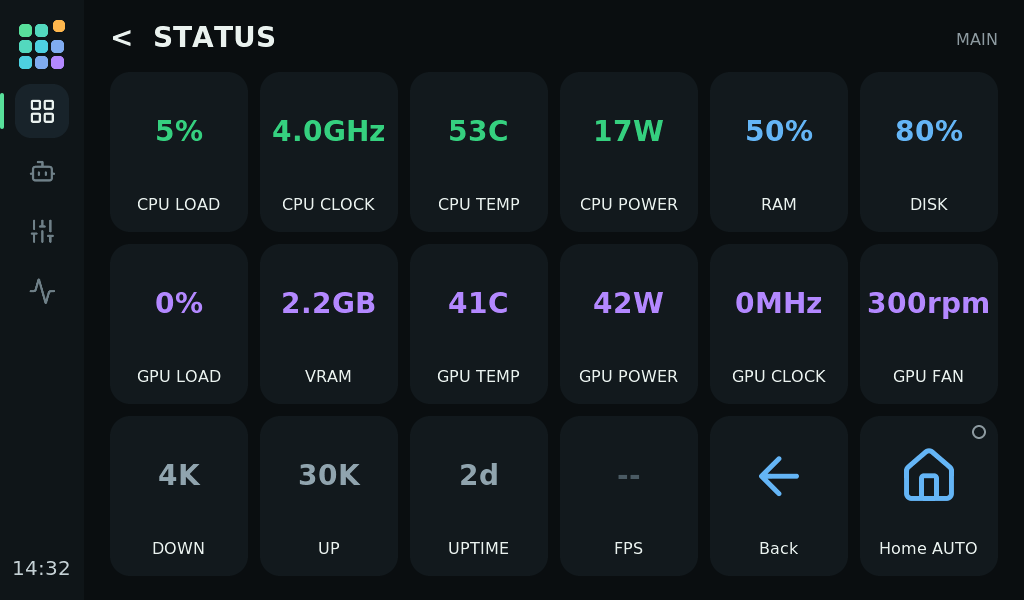
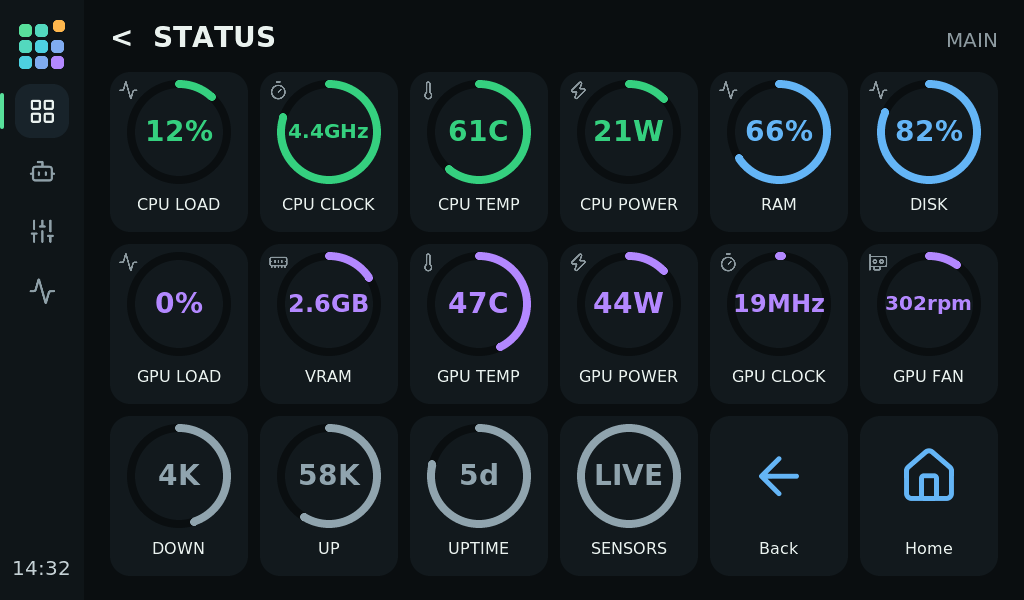
release: 1.0.0
Docs and website checked against the code: version examples, the rollback trigger (a crash or hang before the firmware confirms itself), what was tried on a panel, one-thread drawing, the HTTP redirect and Open step changes, Automatic actions in the More menu. New panel images and demo animation from the current firmware UI.

diff --git a/docs/index.html b/docs/index.html
@@ -171,7 +171,7 @@ footer a{color:var(--muted)}
     <a class="btn" href="https://github.com/catorendal-a11y/tessera-deck/blob/main/docs/INSTALL.md">Read the install guide</a>
   </div>
   <div class="chips">
-    <span class="chip">v0.10.1</span>
+    <span class="chip">v1.0.0</span>
     <span class="chip">MIT licence</span>
     <span class="chip">ESP32-P4 · LVGL 9.6</span>
     <span class="chip">Windows 10 / 11</span>
@@ -275,7 +275,7 @@ footer a{color:var(--muted)}
     <div class="code">
       <header><span>Release · Windows</span><button type="button" data-copy="rel">Copy</button></header>
 <pre id="rel"><span class="c"># from the latest release</span>
-tessera-host-v0.10.1.zip
+tessera-host-v1.0.0.zip
 <span class="c"># unpack, then double-click</span>
 Tessera.cmd</pre>
     </div>
@@ -303,14 +303,14 @@ idf.py -B build/idf6 -p COMx flash</pre>
     <details><summary>Does it run on another board, or on macOS or Linux?</summary><p>Not yet. The pin setup and the screen layout are written for this board, so another board needs a port, and the host runs on Windows only. CONTRIBUTING.md says what a port takes; open an issue with the board's name and resolution.</p></details>
     <details><summary>How does it compare with a Stream Deck?</summary><p>A Stream Deck MK.2 lists at $149.99 with 15 physical keys, the XL at $249.99 with 32. Tessera costs the board and gives 18 keys per page, keys up to three slots wide, and widgets, a mixer, PC status and the AI agents built in, under the MIT licence. You do give up the feel of real keys, since Tessera is a glass touchscreen. Prices are US list prices from November 2026.</p></details>
     <details><summary>Does it send anything to the internet?</summary><p>Only what you ask for: the update check on GitHub, the clock's weather from Open-Meteo, online icons from Iconify, your own HTTP actions and calendar, and the plugins you turn on. The bundled plugins only reach your own Home Assistant and OBS. Setup also downloads Python packages from PyPI, pinned by hash, and Libre Hardware Monitor if you turn on the optional sensors. SECURITY.md lists every connection.</p></details>
-    <details><summary>What happens when the PC is off?</summary><p>The panel keeps the last layout and shows it while the PC is off. Actions run on the PC, so keys need the host. A watchdog restarts the panel when the screen or USB loop hangs, and the bootloader rolls back an update that never reaches the host. All three were tried on a panel; VERIFICATION.md in the repository has the results.</p></details>
+    <details><summary>What happens when the PC is off?</summary><p>The panel keeps the last layout and shows it while the PC is off. Actions run on the PC, so keys need the host. A watchdog restarts the panel when the screen or USB loop hangs, and the bootloader rolls back an update that crashes or hangs before it confirms itself. All three were tried on a panel; VERIFICATION.md in the repository has the results.</p></details>
     <details><summary>Does it work with Home Assistant?</summary><p>Through the PC, yes: the bundled plugin runs Home Assistant actions from keys. On the esphome-beta branch the panel can also join your Wi-Fi and show up through the ESPHome integration, with keys that work while the PC is off. That beta is not in the release yet.</p></details>
     <details><summary>Licence and contributing?</summary><p>MIT. ESP-IDF, LVGL, cJSON, the Lucide icons (ISC), the DejaVu fonts and the optional Libre Hardware Monitor (MPL-2.0) keep their own licences. Bug reports, ideas, ports and pull requests are welcome.</p></details>
   </div>
 </section>
 
 <div class="wrap">
-  <p class="status"><b>Beta.</b> Home Assistant over Wi-Fi lives on the <a href="https://github.com/catorendal-a11y/tessera-deck/tree/esphome-beta">esphome-beta</a> branch and is not in v0.10.1. It runs on one panel and works with aioesphomeapi, the library Home Assistant uses for ESPHome devices, but it has not been tried in a full Home Assistant install yet. Reports in issues are welcome.</p>
+  <p class="status">Home Assistant over Wi-Fi is a beta. It lives on the <a href="https://github.com/catorendal-a11y/tessera-deck/tree/esphome-beta">esphome-beta</a> branch and is not in v1.0.0. It runs on one panel and works with aioesphomeapi, the library Home Assistant uses for ESPHome devices, but it has not been tried in a full Home Assistant install yet. Reports in issues are welcome.</p>
 </div>
 </main>
 

diff --git a/docs/FEATURES.md b/docs/FEATURES.md
@@ -4,7 +4,7 @@
 
 Tessera turns the 1024 × 600 touchscreen of the **GUITION 7-inch ESP32-P4 display board** into a Stream Deck-style panel with 18 keys and four screens. A small Windows host owns the USB connection and runs the actions. It also serves the editor, which shows the same keys as the panel.
 
-This page lists what Tessera does, including the changes under *Unreleased* in the [changelog](../CHANGELOG.md). For how to use each part, see [Using Tessera](USING.md).
+This page lists what Tessera does in version 1.0.0. The [changelog](../CHANGELOG.md) lists what changed. For how to use each part, see [Using Tessera](USING.md).
 
 | Editor: a page of widgets | Editor: status page with live gauges |
 |---|---|
@@ -42,7 +42,7 @@ This page lists what Tessera does, including the changes under *Unreleased* in t
 | Gesture | Result |
 |---|---|
 | Tap a key | Runs its actions. |
-| Hold a key for about half a second | Runs the key's *Held* actions, if it has any. |
+| Hold a key for about 0.4 seconds | Runs the key's *Held* actions, if it has any. |
 | Two quick taps | Run the *Double-press* actions. A key with a double press waits about a third of a second before its normal action runs. |
 | Hold a key marked *Hold to confirm* | Runs only after a 0.6 s hold while a ring fills. Lifting or sliding off earlier does nothing. |
 | Swipe right on the keys | Goes back, like Keys on the rail after a shortcut. A swipe never presses the key it starts on. |
@@ -63,8 +63,9 @@ This page lists what Tessera does, including the changes under *Unreleased* in t
 
 - The panel dims after inactivity or when the PC locks. Quiet hours lower the brightness at night.
 - A watchdog restarts the panel when the screen or the USB loop hangs. The host logs the restart and why, and shows a notice after a crash, hang or power dip.
-- Firmware updates go over USB. The flash has two 6 MB app slots, and the bootloader returns to the previous firmware if a new one never reaches the host.
-- The watchdog, the rollback and the offline layout were tried on a panel, the first two with builds made to hang or never confirm. [VERIFICATION.md](../VERIFICATION.md) has the results.
+- Firmware updates go over USB. The flash has two 6 MB app slots, and the bootloader returns to the previous firmware if a new one crashes or hangs before it confirms itself (at the first handshake with the host, or after 60 s).
+- The watchdog, the rollback and the offline layout were tried on a panel with firmware 0.10.1, the first two with builds made to hang or never confirm. Hold to confirm, the panel lock, swipe back, the about sheet and how the widgets, faders and ambient screen look and feel on the glass have not been tried on a panel yet. [VERIFICATION.md](../VERIFICATION.md) has the results and the list.
+- The screen is drawn by one thread. A full screen takes about 55 ms and a page change 49 to 52 ms ([measured numbers](../VERIFICATION.md#screen-speed)). A page change draws the screen once, a picture that arrives late redraws only its key, and a change in an agent's text redraws only that text.
 
 ## In the editor
 
@@ -91,7 +92,7 @@ Text is at least 14 px, dim text has more contrast, and Windows' high-contrast s
 | Profile | New profile, a profile from a template, duplicate, *Profile settings …*, *Delete this profile*. |
 | Page | New page, a page from a template (Meetings, Coding, Media, Browser), duplicate, *Page settings …*, *Delete this page*. |
 | Panel | *Display …* (brightness, dimming, quiet hours, idle clock, clock format), *Panel firmware and updates …*, *Rail …*, *Key colors …*. |
-| More | *Getting started*, *Connect Claude Code …*, *Plugins …*, export, import, *Restore a backup …*, *Host log …*, *Save diagnostics*. |
+| More | *Getting started*, *Connect Claude Code …*, *Plugins …*, *Automatic actions …*, export, import, *Restore a backup …*, *Host log …*, *Save diagnostics*. |
 
 Deleting a page or a profile asks no question. A toast offers Undo.
 
@@ -117,7 +118,8 @@ Deleting a page or a profile asks no question. A toast offers Undo.
 - Over 120 ready-made actions and 10 profile templates for Windows, windows and desktops, PowerToys, GitHub Desktop, VS Code, browsers, meetings (Teams, Zoom, Discord), media, Codex, Claude Code and ZCode.
 - Actions added in 0.7.0: *Copy to clipboard*, *Window* (minimize, maximize, restore, close, always on top, next monitor, bring a program to the front), *Toggle variable* and *Lock panel*.
 - Counters and timers with labels (`$(counter:laps)`, `$(timer:tea)`), a countdown on the key, notifications and end actions. They are saved, and a running timer keeps counting while Tessera is closed.
-- An HTTP action fails with the status code when the answer is 4xx or 5xx.
+- An HTTP action fails with the status code when the answer is 4xx or 5xx. It refuses a redirect from https to http, and a redirect to another host goes there without the step's headers.
+- An *Open* step with an address does not fill in `%NAME%` from the PC's environment. Paths still do.
 
 ### Testing
 
@@ -150,7 +152,7 @@ Deleting a page or a profile asks no question. A toast offers Undo.
 
 - The sensors come from free sources. Windows performance counters work out of the box. The graphics driver adds GPU temperature, power, fan speed and clock without administrator rights (AMD through ADL, NVIDIA through `nvidia-smi`). [Libre Hardware Monitor](https://github.com/LibreHardwareMonitor/LibreHardwareMonitor) adds CPU temperature and power. `Tessera.cmd --sensors` starts it at every sign-in (one Windows prompt) and `--sensors-off` undoes it.
 - Windows notifications (panel connected or gone, an agent waiting, a timer that ends) can be switched off in Program settings or the tray menu.
-- By default Tessera verifies the device identity, keeps the action queue bounded, runs long commands without blocking other keys and shows a review before an import. An export leaves out the calendar address, plugin passwords and web request credentials. Plugin secrets are stored encrypted for your Windows account.
+- By default Tessera verifies the device identity, keeps the action queue bounded, runs long commands without blocking other keys and shows a review before an import, which marks a web request that sends `$(env:NAME)` as high risk. An export leaves out the calendar address, plugin passwords and web request credentials. Plugin secrets are stored encrypted for your Windows account.
 - Tessera keeps rotating backups that you can restore. A broken `profiles.json` is never backed up, and the newest good backup is restored at start.
 - From the tray app you can start Tessera with Windows and control the host. A host that dies starts again by itself.
 - For upkeep there are `Tessera.cmd --setup`, `--uninstall` and `--diagnostics`. The host log is kept under 5 MB with three older logs.

diff --git a/docs/SMARTDECK_COMPARISON.md b/docs/SMARTDECK_COMPARISON.md
@@ -18,8 +18,8 @@ README states it; behaviour that was not stated is marked *not stated*.
 |---|---|
 | Timer action: countdown with notifications | **Added.** `timer` action: start, pause, resume, stop, toggle; label `$(timer:name)`, optional countdown ring, message, sound, tray notification and actions when it ends. |
 | Counter action: increment/decrement, long-press reset | **Added.** `counter` action with step, limits and wrap; reset on long press through `hold_actions`; saved across restarts. |
-| Persistent device-side state, offline use (*not stated* by SmartDeck) | **Partly added.** The panel keeps the last layout in flash and shows it after a restart without the PC. Counters and timers are saved by the Windows host, not on the panel (see limits). |
-| "Install Firmware" button in the app, about 60 s | **Added.** *Panel firmware and updates …* in the Panel menu: verified package, board and protocol check, progress, host stopped and restarted around it. *Update (keeps settings)* goes over the panel's own USB connection, and the bootloader rolls back to the previous firmware if a new one never reaches the host. Run on the panel from 0.5.2 to 0.6.0; see [VERIFICATION.md](../VERIFICATION.md). |
+| Persistent device-side state, offline use (*not stated* by SmartDeck) | **Partly added.** The panel keeps the last layout in flash and shows it after a restart without the PC; this was tried on a panel. Counters and timers are saved by the Windows host, not on the panel (see limits). |
+| "Install Firmware" button in the app, about 60 s | **Added.** *Panel firmware and updates …* in the Panel menu: verified package, board and protocol check, progress, host stopped and restarted around it. *Update (keeps settings)* goes over the panel's own USB connection, and the bootloader rolls back to the previous firmware if a new one crashes or hangs before it confirms itself (at the first handshake with the host, or after 60 s). The update over USB (0.7.0 to 0.8.0) and the rollback to the previous slot (0.10.1) were run on a panel; see [VERIFICATION.md](../VERIFICATION.md). |
 | Test mode (right-click → Test), works without a device | **Added as a dry run.** **Test** on a key explains each step and checks hotkeys, program paths, shell values and web addresses without running anything. *Run now* is the one exception: it asks first when the key runs a command, sends a web request or types text. |
 | 100,000+ icons through Iconify | **Added, opt-in.** *Search online* in the icon library queries api.iconify.design only when pressed; the host validates the SVG and the editor turns it into a key image in the key's color. Tessera still ships 1,895 offline Lucide icons. |
 | Image crop and scale editor | **Added.** Cropper with drag and zoom for still pictures; animated GIF/WebP are sent unchanged. |
@@ -28,7 +28,7 @@ README states it; behaviour that was not stated is marked *not stated*.
 | Clock and weather (the About text mentions a weather widget; no details stated) | **Added.** Ambient screen: a large clock built from brand-colored tiles, the date and, if the user picks a city, current weather from Open-Meteo. Off by default; no internet use unless weather is configured. |
 | Per-app volume ("App Audio" presets) | **Added.** The `audio` action targets `speaker`, `mic` or `app:NAME.exe` and can mute, unmute, toggle, set the volume or step it up and down. |
 | Realistic typing simulation | **Added.** A `delay_ms` per character on the `text` action (0-500 ms); slow typing runs on the slow lane. |
-| Weather city search with autocomplete, hourly refresh | **Partly.** Tessera searches by name and lets you choose between matching places; weather refreshes every 15 minutes. No live autocomplete and no condition icon on the clock screen. |
+| Weather city search with autocomplete, hourly refresh | **Partly.** Tessera searches by name and lets you choose between matching places; weather refreshes every 15 minutes. No live autocomplete. The clock screen shows an icon for the weather. |
 | Serial debug monitor | **Added as a host log.** *Host log …* in the More menu (Help group) shows a live, cleaned tail of the host's log (connections, presses, actions, problems). |
 | Deep Sleep (screen and LEDs off after the dim period) | Already possible: set "Brightness when dimmed" to Off; a touch wakes the panel. |
 | Global theme row (background, button, text, stroke, shadow) and a Themes menu (seen in its screenshots) | **Added.** *Key colors …* in the Panel menu sets the default background, label and outline for every key with five presets or custom colors; a key's own colors win. |

diff --git a/docs/USING.md b/docs/USING.md
@@ -31,7 +31,7 @@ Nothing runs in the editor: keys run only when you press them on the panel, or w
 | **Profile** | New profile, *Profile from a template …*, Duplicate, *Profile settings …*, *Delete this profile* |
 | **Page** | New page, *Page from a template …*, Duplicate, *Page settings …*, *Delete this page* |
 | **Panel** | *Display …*, *Panel firmware and updates …*, *Rail …*, *Key colors …* |
-| **More** | *Getting started*, *Connect Claude Code …*, *Plugins …*, *Export to a file*, *Import from a file …*, *Restore a backup …*, *Host log …*, *Save diagnostics* |
+| **More** | *Getting started*, *Connect Claude Code …*, *Plugins …*, *Automatic actions …*, *Export to a file*, *Import from a file …*, *Restore a backup …*, *Host log …*, *Save diagnostics* |
 
 **Program settings** in the top bar holds only what the PC does: starting the host at sign-in, Windows notifications, switching profiles by program, and the calendar for the Next meeting widget.
 
@@ -91,7 +91,7 @@ A widget does nothing when pressed until you give it steps on the **Actions** ta
 A key runs its steps in order.
 
 1. Select the key and open the **Actions** tab.
-2. Pick **Pressed**, **Held** or **Double-press** for when the steps run. A held key runs after about half a second.
+2. Pick **Pressed**, **Held** or **Double-press** for when the steps run. A held key runs after about 0.4 seconds.
 3. Add steps with **＋ Step …**, or drop an action from the list on the key.
 4. Drag a step to reorder it, or use its ↑ and ↓ buttons. A step's type is a menu in its title.
 5. Put **Wait** steps between steps that need time.
@@ -214,7 +214,7 @@ If `host/profiles.json` is broken at start, Tessera restores the newest good bac
 |---|---|---|
 | Hotkey | `hotkey` | Press a key combination or media key |
 | Type text | `text` | Type text |
-| Open program / file | `open` | Open a program, file, folder or URL, optionally focusing a running program |
+| Open program / file | `open` | Open a program, file, folder or URL, optionally focusing a running program. `%NAME%` is filled in from the environment in paths, not in addresses |
 | Run command, HTTP request | `shell`, `http` | Run a command or call an address; an error status (4xx, 5xx) fails the action, and so does a redirect from https to http. A redirect to another host goes there without the step's headers |
 | Wait | `delay` | Wait between steps |
 | Open folder (with Back key), Back, Go home, Go to page (no Back key), Switch profile | `folder`, `back`, `home`, `page`, `profile` | Navigate |

diff --git a/docs/RELEASING.md b/docs/RELEASING.md
@@ -4,7 +4,7 @@
 
 ## Versions
 
-`VERSION` holds one number (for example `0.10.1`). The firmware (`PROJECT_VER`), the host, the firmware packages and the release tag all use it.
+`VERSION` holds one number (for example `1.0.0`). The firmware (`PROJECT_VER`), the host, the firmware packages and the release tag all use it.
 
 The firmware's USB protocol has its own number in `main/protocol_version.h`. The host accepts the protocols listed in `SUPPORTED_PROTOCOLS` in `host/panel_serial.py`. It refuses a panel outside that range with a message that says which side to update.
 
@@ -21,7 +21,7 @@ The configuration file has its own `version` (currently 2). Opening an older fil
 
 ## Make a release
 
-1. Rename `## Unreleased` in `CHANGELOG.md` to `## <version>`, for example `## 0.8.1`. Put a fresh `## Unreleased` above it if you want one.
+1. Rename `## Unreleased` in `CHANGELOG.md` to `## <version>`, for example `## 1.0.0`. Put a fresh `## Unreleased` above it if you want one.
 2. Set `VERSION` to the same number.
 3. Run the checks from [CONTRIBUTING.md](../CONTRIBUTING.md) and the native UI test.
 4. Commit and push, then tag and push the tag:
@@ -47,7 +47,7 @@ The workflow stops early when the tag does not match `VERSION` or the changelog 
 Anyone can check that a download came from this workflow:
 
 ```powershell
-gh attestation verify tessera-host-v0.10.1.zip --repo catorendal-a11y/tessera-deck
+gh attestation verify tessera-host-v1.0.0.zip --repo catorendal-a11y/tessera-deck
 ```
 
 [INSTALL.md](INSTALL.md) also explains how to compare a download with `SHA256SUMS`.
@@ -81,7 +81,7 @@ A panel that reports `"ota":1` takes *Update* over its own USB connection (`AD_O
 
 If the panel does not answer, esptool through the ROM bootloader still works. Unplug the panel, plug it in and install again. An esptool *Update* writes the app to `ota_0` and resets `otadata` so that slot boots.
 
-Rollback is written and tested in simulation. It has not been tried on the panel; see [VERIFICATION.md](../VERIFICATION.md).
+Rollback was tried on a panel on 16 November 2026. A test build that never confirmed itself restarted, and the bootloader started the previous firmware again. [VERIFICATION.md](../VERIFICATION.md) has the details.
 
 ### The first A/B install needs a full install
 

diff --git a/docs/INSTALL.md b/docs/INSTALL.md
@@ -28,11 +28,11 @@
 2. Compare the zip's SHA-256 with its line in `SHA256SUMS`. The two hashes must match (letter case does not matter).
 
    ```powershell
-   Get-FileHash .\tessera-host-v0.10.1.zip -Algorithm SHA256
+   Get-FileHash .\tessera-host-v1.0.0.zip -Algorithm SHA256
    Get-Content .\SHA256SUMS
    ```
 
-3. Optional, with the GitHub CLI: `gh attestation verify tessera-host-v0.10.1.zip --repo catorendal-a11y/tessera-deck` checks that the release workflow built the zip.
+3. Optional, with the GitHub CLI: `gh attestation verify tessera-host-v1.0.0.zip --repo catorendal-a11y/tessera-deck` checks that the release workflow built the zip.
 4. Unpack the zip. It holds the host, the editor and the firmware package in `firmware/`.
 
 Windows SmartScreen may warn about the download. Tessera is not signed with a paid code-signing certificate (a signed
@@ -95,7 +95,7 @@ protocol before it writes anything, stops the host while it writes and starts it
 
 - A new board without Tessera firmware does not answer. The dialog then chooses *Full install* and shows *Install anyway*. Tick it. The chip type is still checked.
 - The release zip includes a firmware package. *Check for updates* asks GitHub for the latest release and can download the package; it is kept only if its SHA-256 matches `SHA256SUMS`. You can also put `tessera-firmware-<version>.zip` from the Releases page in the `firmware` folder and choose it in the dialog.
-- The flash has two 6 MB app slots for rollback. If a new firmware never reaches the host, the bootloader goes back to the previous one on the next reset. The details are in [RELEASING.md](RELEASING.md).
+- The flash has two 6 MB app slots for rollback. If a new firmware crashes or hangs before its first handshake with the host (or before it has run for 60 s), the bootloader goes back to the previous one on the next reset. The details are in [RELEASING.md](RELEASING.md).
 - On a panel with old single-slot firmware, the first update to A/B firmware must be a *Full install*. The installer says so.
 - A panel with firmware this host cannot talk to, such as the Wi-Fi beta, also needs a *Full install*. The installer says so.
 

diff --git a/README.md b/README.md
@@ -118,7 +118,7 @@ Reports in [issues](https://github.com/catorendal-a11y/tessera-deck/issues) are 
 |---|---|---|
 | <img src="docs/images/console-user.jpg" alt="The console seen from the front at eye height, with the panel's main page"> | <img src="docs/images/console-back.jpg" alt="The back of the console: air openings, two screwdriver holes and the cable arch"> | <img src="docs/images/console-detail.jpg" alt="Close-up of the tile mark in the chin, with the printed layer lines"> |
 
-The panel drops into a printed console that reclines it 45° and hides the cables, or into a lighter open dock. Both print without supports. [hardware/](hardware/README.md) has the STL and STEP files, the CAD models, the print settings and how the panel is fastened.
+The panel drops into a printed console that reclines it 45° and hides the cables, or into a lighter open dock. The console prints without supports; the dock should too. [hardware/](hardware/README.md) has the STL and STEP files, the CAD models, the print settings and how the panel is fastened.
 
 <sub>The pictures are rendered in Blender from the CAD model, with the panel's real screen. [`make_render.py`](hardware/make_render.py) builds the scene, saves it as [`tessera-console.blend`](hardware/tessera-console.blend) and renders it in 4K. See [Render the console](hardware/README.md#render-the-console).</sub>
 

diff --git a/SECURITY.md b/SECURITY.md
@@ -13,6 +13,8 @@ The editor and the control API are two small web servers inside the host. Neithe
 
 - The tokens live in `host/deck-api.local.json` and in the editor's record file. Only your Windows account can read them. They change every time the host starts.
 - Plugins get their own token with only the routes they declared, and only variable names that start with `<plugin id>.`. See [Plugins](docs/PLUGINS.md).
+- An HTTP action does not follow a redirect from https to http. A redirect to another host goes there without the action's headers, so an `Authorization` header is not passed on.
+- An *Open* step with an address does not fill in `%NAME%` from the PC's environment, so the address cannot leak it. Paths still do.
 - Every call that changes something through the control API is written to the host log (**More → Host log …**) with the caller's name, the method, the path and the answer code. The log never holds request bodies, and it leaves out successful bulk variable updates (`/v1/vars`). Single updates (`/v1/var`) are logged.
 - The panel itself has no network. It only speaks to the host over USB, see [Protocol](docs/PROTOCOL.md).
 - Any program that can open the panel's COM port can write firmware to it, as esptool does. Secure boot is off, so the panel runs that firmware without checking who built it.

diff --git a/docs/ELGATO_RESEARCH.md b/docs/ELGATO_RESEARCH.md
@@ -108,7 +108,7 @@ step in the current implementation.
 |---|---|---|
 | Visual button configuration | Drag actions to buttons; edit the selected action | Exists; mouse/touch, move/swap, choice of icon/color/name |
 | Custom icons | Images from file, icon library and animated formats | 1,895 Lucide icons, real app icons and your own PNG, JPEG, GIF and WebP files |
-| Text on buttons | Font settings and top/middle/bottom placement | Size, placement and bold are saved, but the panel draws one size today (only *Hide text* applies); the label is limited to 24 UTF-8 bytes |
+| Text on buttons | Font settings and top/middle/bottom placement | Size (16, 20, 24 or 28), placement (top, middle, bottom or hidden) and bold are drawn by the panel; the label is limited to 24 UTF-8 bytes |
 | Profiles | Separate setups with Smart Profiles by active program | Exists; rules on the process, a child process or the window title, picked from running programs in the editor |
 | Folders/pages | Its own folder action and pages; pinned actions can follow navigation | Folders with a folder stack, back button and pinned buttons |
 | Multi-actions | Own Multi Action configuration with steps and delays | Sequential steps and delay exist; simplified editor |

diff --git a/CHANGELOG.md b/CHANGELOG.md
@@ -1,6 +1,8 @@
 # Changelog
 
-## Unreleased
+## 1.0.0
+
+A panel with 0.7.0 or later takes this version with *Update*. An older panel, or one with the Wi-Fi beta firmware, needs *Full install* once.
 
 - Firmware: *Update* on a panel with the Wi-Fi beta firmware now says to use *Full install* because this version cannot talk to the beta. Before, the message blamed the A/B flash layout.
 - Firmware: a page change draws the screen once. Before, the panel drew the whole screen again for every wake the host sends with a page and with a key's feedback, so going to a page and back showed it redrawn three or four times in a row.
@@ -12,6 +14,7 @@
 - Host: an *Open* step with an address no longer fills in `%NAME%` from the PC's environment. Paths still do.
 - Import: a web request that sends `$(env:NAME)` in its address, headers or body is marked high risk and names the variable. Before, it was medium.
 - Docs: the README links [VERIFICATION.md](VERIFICATION.md). The watchdog, the rollback and the offline layout were tried on a panel, and VERIFICATION.md has the results.
+- Docs: the panel images and the demo animation are drawn again with the current firmware UI, from a demo profile built on the default one.
 
 ## 0.10.1
 

diff --git a/docs/DEVELOPMENT.md b/docs/DEVELOPMENT.md
@@ -108,7 +108,7 @@ idf.py -B build/idf6 build
 python tools/package_firmware.py build/idf6 dist    # writes dist/tessera-firmware-<version>.zip
 ```
 
-The first build downloads LVGL and the other components into `managed_components/` (not in git). `dependencies.lock` pins their versions. `VERSION` sets the firmware version, and a change to it reconfigures the build. The flash layout is in `partitions.csv` (two 6 MB app slots). Install a package with *Panel firmware and updates …* in the editor, or by hand as [INSTALL.md](INSTALL.md) describes.
+The first build downloads LVGL and the other components into `managed_components/` (not in git). `dependencies.lock` pins their versions. `VERSION` sets the firmware version, and a change to it reconfigures the build. The flash layout is in `partitions.csv` (two 6 MB app slots). The screen is drawn by one thread (`CONFIG_LV_DRAW_SW_DRAW_UNIT_CNT=1` in `sdkconfig.defaults`); two threads garbled text and icons, see [VERIFICATION.md](../VERIFICATION.md#screen-speed). Install a package with *Panel firmware and updates …* in the editor, or by hand as [INSTALL.md](INSTALL.md) describes.
 
 ## Native LVGL tests and render tools
 

diff --git a/VERIFICATION.md b/VERIFICATION.md
@@ -43,6 +43,7 @@ Other automatic checks:
 | Offline layout: the panel reset with the host stopped | 0.10.1, 16 November 2026 | Passed. 1.4 s after the reset it showed the 18 keys of the saved layout, not the 12 built-in ones |
 | Watchdog: a test build hangs the screen task, then the USB loop | 0.10.1, 16 November 2026 | Passed. The panel restarted after 6.4 s (screen) and 7.2 s (USB) and reported `task_wdt` as the reason |
 | Rollback: a test build that never confirms itself and restarts 15 s after boot, installed with *Update* | 0.10.1, 16 November 2026 | Passed. After its first restart the bootloader started the previous firmware again, which kept running |
+| `hardware_smoke.py` after installing 1.0.0 with *Update* | 1.0.0, 16 November 2026 | Passed |
 
 The watchdog and rollback tests used two builds made only for that and never published. One adds a command that hangs the screen task or the USB loop. The other skips the confirmation and restarts while the new firmware is still unconfirmed. The host turns a `task_wdt` reason into a log line and a notice; that part is covered by unit tests, not by these runs. The panel runs the normal 0.10.1 build again.
 
